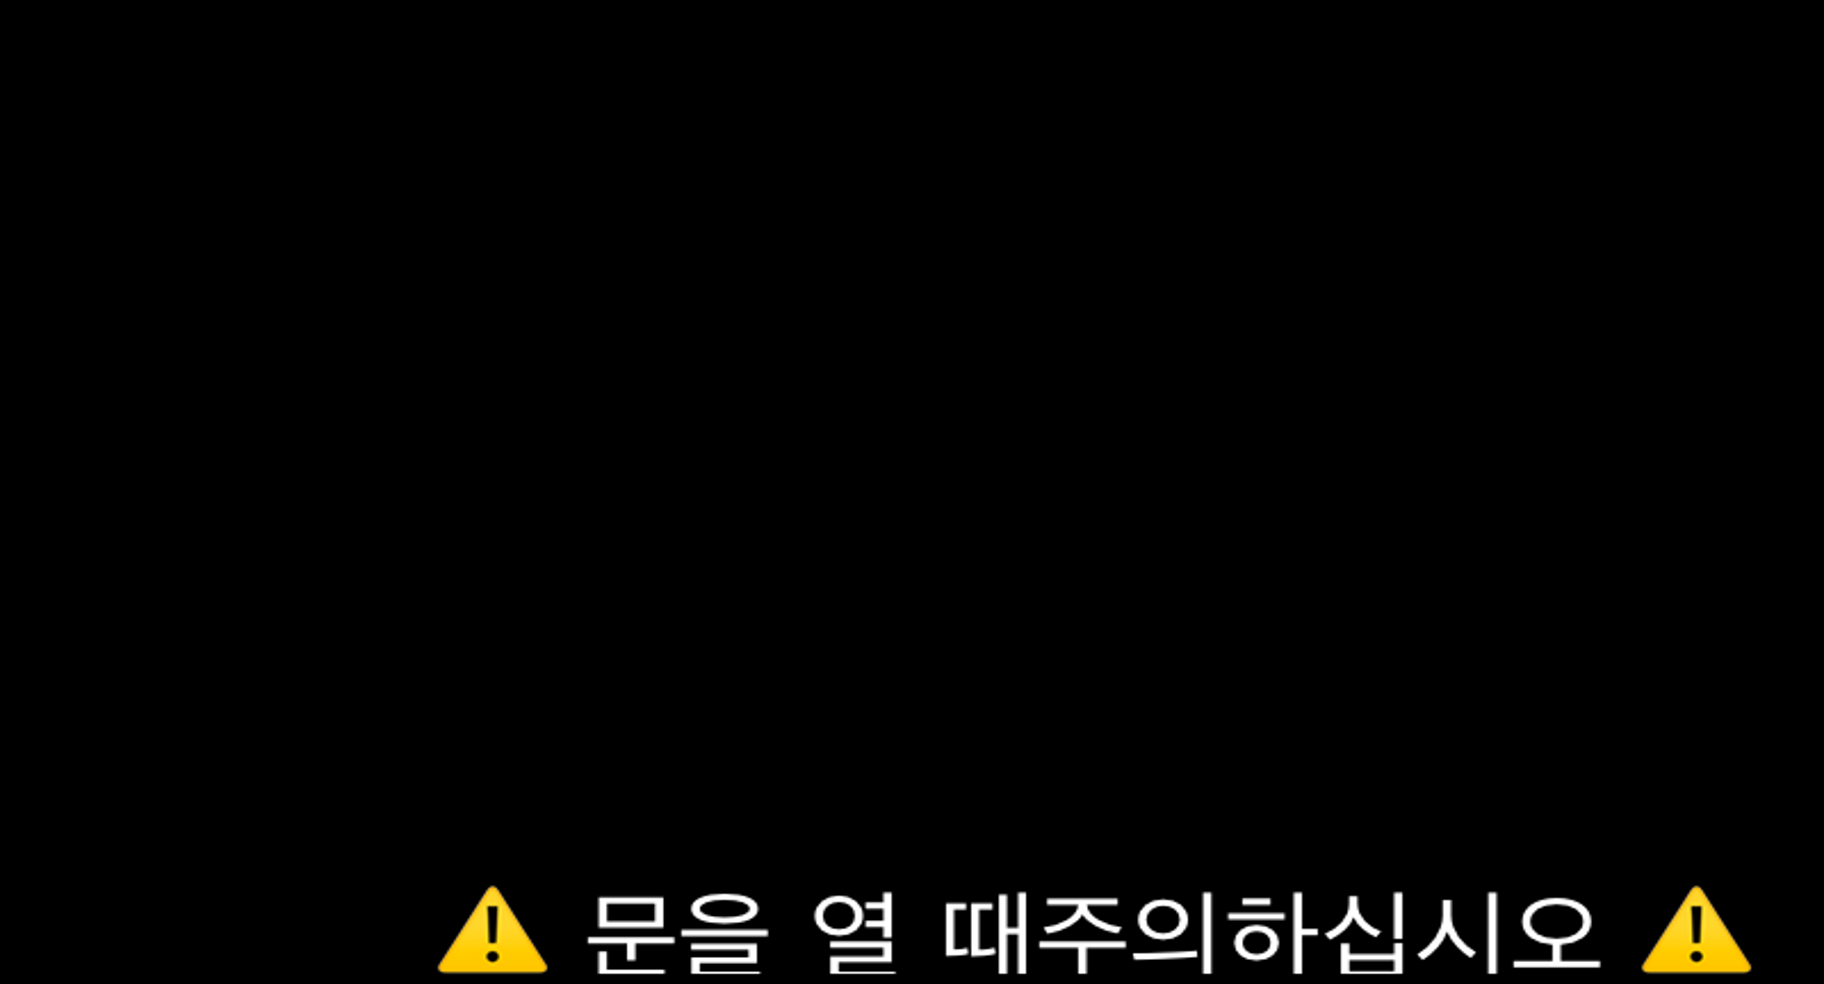
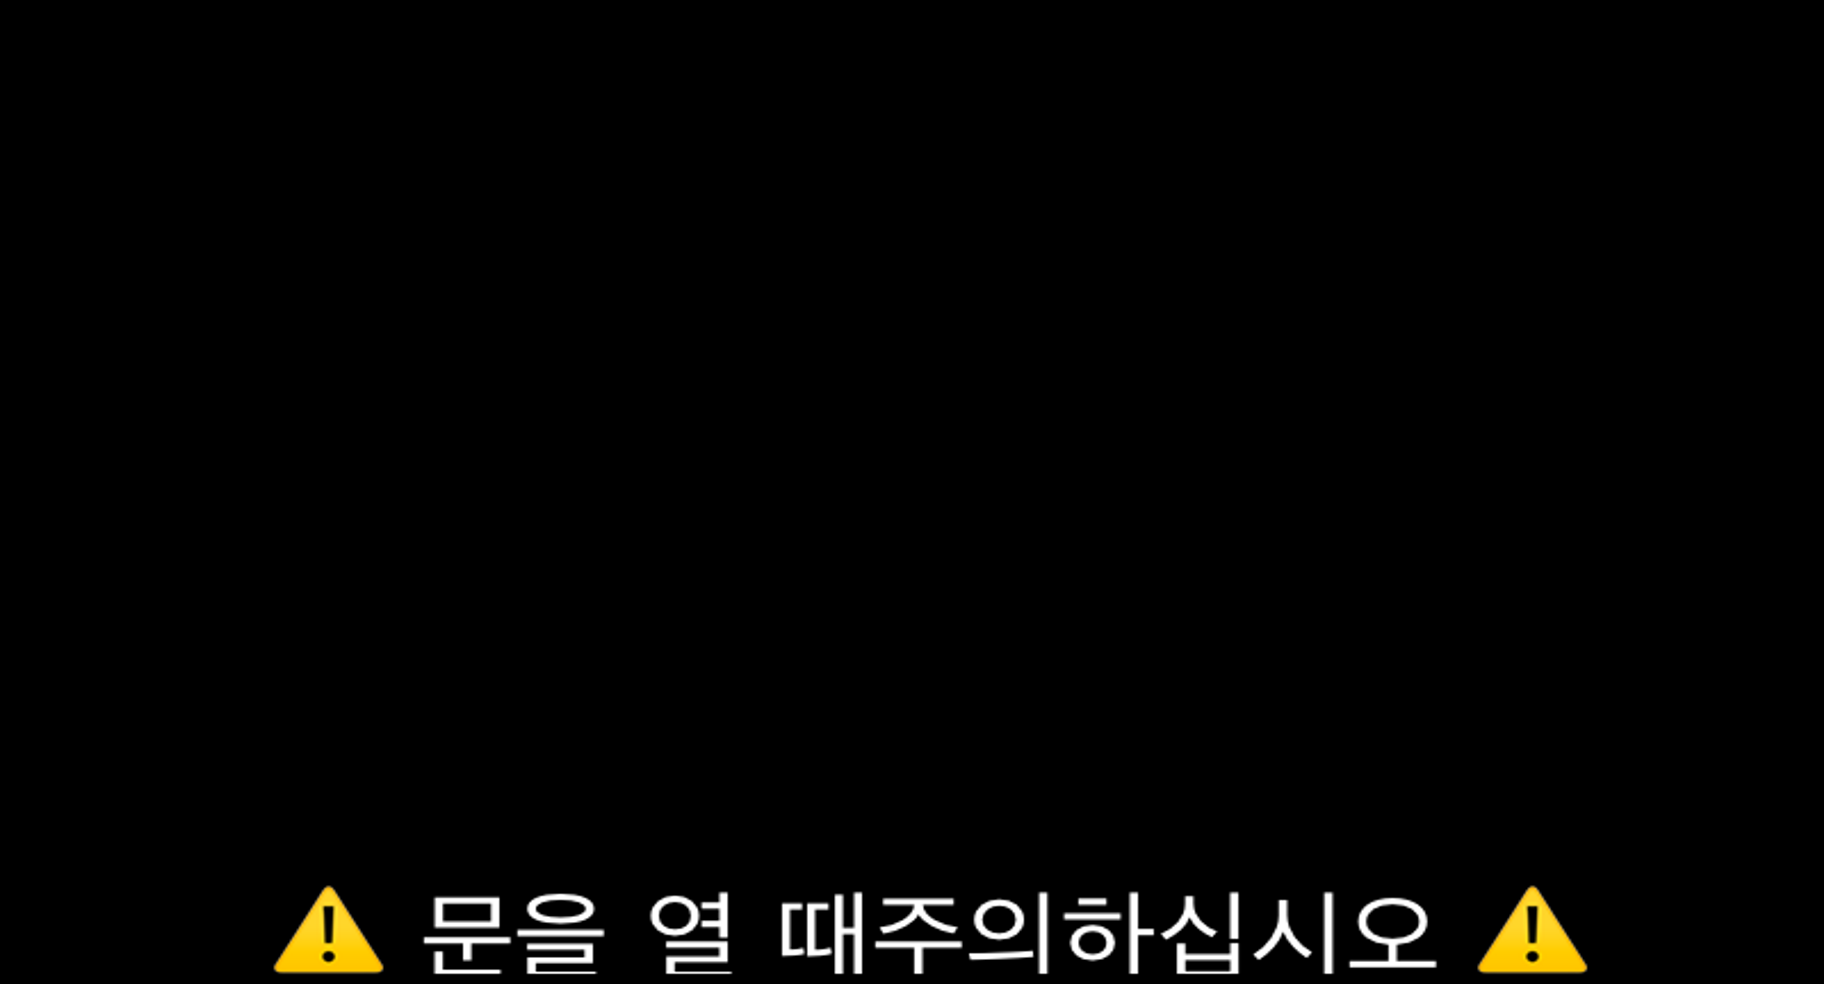
modified ui

Changed region(s): [[0.125, 0.8841, 0.9688, 1.0]]

diff --git a/ui.py b/ui.py
@@ -10,6 +10,8 @@ SIGN_HEIGHT = (int)(MAX_HEIGHT / 3)
 SIGN_WIDTH = SIGN_HEIGHT
 GUIDE_WIDTH = MAX_WIDTH - SIGN_WIDTH
 GUIDE_HEIGHT = MAX_HEIGHT
+TEXT_WIDTH = GUIDE_WIDTH
+TEXT_HEIGHT = MAX_HEIGHT - 98
 OIL_TEXT_WIDTH = 615
 OIL_TEXT_MARGIN = 102
 LIST_MARGIN = 123
@@ -30,17 +32,17 @@ def windowInit(lang):
     pygame.mixer.music.load(lang + '/voice/turn.mp3')
 
     images = {}
-    images['OIL'] = cv2.imread('./img/oil/regular.png')
-    images['OILTEXT'] = cv2.imread(lang + '/img/refuel.png')
-    images['LEFT'] = cv2.imread('./img/turn_left.png')
-    images['RIGHT'] = cv2.imread('./img/turn_right.png')
-    images['STOP'] = cv2.imread(lang + '/img/stop.png')
-    images['SLOW'] = cv2.imread(lang + '/img/slow.png')
-    images['OVER'] = cv2.imread(lang + '/img/overtaking.png')
-    images['ATTENTION'] = cv2.imread(lang + '/img/attention.png')
-    images['DOOR'] = cv2.imread(lang + '/img/door.png')
-    images['BACK'] = cv2.imread(lang + '/img/back.png')
-    images['DANGER'] = cv2.imread(lang + '/img/danger.png')
+    images['OIL'] = cv2.imread('./img/oil/regular.png')				#full size
+    images['OILTEXT'] = cv2.imread(lang + '/img/refuel.png')		#small size
+    images['LEFT'] = cv2.imread('./img/turn_left.png')				#main size
+    images['RIGHT'] = cv2.imread('./img/turn_right.png')			#main size
+    images['STOP'] = cv2.imread(lang + '/img/stop.png')				#sign size
+    images['SLOW'] = cv2.imread(lang + '/img/slow.png')				#sign size
+    images['OVER'] = cv2.imread(lang + '/img/overtaking.png')		#sign size
+    images['ATTENTION'] = cv2.imread(lang + '/img/attention.png')	#text size
+    images['DOOR'] = cv2.imread(lang + '/img/door.png')				#full size
+    images['BACK'] = cv2.imread(lang + '/img/back.png')				#full size
+    images['DANGER'] = cv2.imread(lang + '/img/danger.png')			#text size
 
     return images
 
@@ -60,29 +62,30 @@ def pastePicture(background, src, x, y):
     background[0 + y : row + y, 0 + x : col + x] = dst
 
 def makeWindow(base, images, stateString):
-    main, stop, slow, over = stateString.split(',')
+    turn, text, stop, slow, over = stateString.split(',')
     
     #main area    
-    if main == 'left':
+    if turn == 'left':
         pastePicture(base, images['LEFT'], SIGN_WIDTH, 0)
         soundThread = threading.Thread(target = soundPlay)
         if soundThread.is_alive == False:
             soundThread.start()
         
-    elif main == 'right':
+    elif turn == 'right':
         pastePicture(base, images['RIGHT'], SIGN_WIDTH, 0)
         soundThread = threading.Thread(target = soundPlay)
         if soundThread.is_alive == False:
             soundThread.start()
     
-    elif main == 'back':
-        pastePicture(base, images['BACK'], SIGN_WIDTH, 0)
+    #text area
+    if text == 'back':
+        pastePicture(base, images['BACK'], 0, 0)
     
-    elif main == 'danger':
-        pastePicture(base, images['DANGER'], SIGN_WIDTH, 0)
+    elif text == 'danger':
+        pastePicture(base, images['DANGER'], SIGN_WIDTH, TEXT_HEIGHT)
 
     else :
-        pastePicture(base, images['ATTENTION'], SIGN_WIDTH, 0)
+        pastePicture(base, images['ATTENTION'], SIGN_WIDTH, TEXT_HEIGHT)
     
     #sign area
     if stop == 'stop':

diff --git a/main.py b/main.py
@@ -6,6 +6,7 @@ import numpy as np
 import signListener
 import turnListener
 import fuelListener
+import textListener
 import parkingListener
 import langSelector
 import ui
@@ -50,6 +51,9 @@ def main():
             #main area
             turnState = turnListener.listener(turnState)
             stateString += turnState
+            
+            #text area
+            stateString += textListener.listener()
             
             #sign area
             stateString += signListener.listener(video, signCount)

diff --git a/turnListener.py b/turnListener.py
@@ -3,8 +3,6 @@ import RPi.GPIO as GPIO
 import time
 import threading
 
-import parkingListener
-
 #speed log
 MAX_LENGTH = 100
 MARGIN = 5
@@ -76,11 +74,5 @@ def listener(state):
     
     if (state == 'right,' or state == 'left,'):
         speedRecode[:] = []
-    
-    if parkingListener.isBack():
-        return ('back,')
-            
-    elif parkingListener.isDanger():
-        return ('danger,')
         
     return (',')

diff --git a/parkingListener.py b/parkingListener.py
@@ -1,8 +1,6 @@
 import RPi.GPIO as GPIO
 
-DANGER_PIN = 5
 PARK_PIN = 6
-BACK_PIN = 12
 
 def isParking():
     if (GPIO.input(PARK_PIN) == GPIO.LOW):
@@ -10,14 +8,3 @@ def isParking():
     
     return (False)
 
-def isBack():
-    if (GPIO.input(BACK_PIN) == GPIO.LOW):
-        return (True)
-
-    return (False)
-
-def isDanger():
-    if (GPIO.input(DANGER_PIN) == GPIO.LOW):
-        return (True)
-
-    return (False)

diff --git a/textListener.py b/textListener.py
@@ -1,0 +1,25 @@
+import RPi.GPIO as GPIO
+
+DANGER_PIN = 5
+BACK_PIN = 12
+
+def isBack():
+    if (GPIO.input(BACK_PIN) == GPIO.LOW):
+        return (True)
+
+    return (False)
+
+def isDanger():
+    if (GPIO.input(DANGER_PIN) == GPIO.LOW):
+        return (True)
+
+    return (False)
+
+def listenr():	
+	if isBack():
+		return ('back,')
+				
+	elif isDanger():
+		return ('danger,')
+		
+	return (',')
